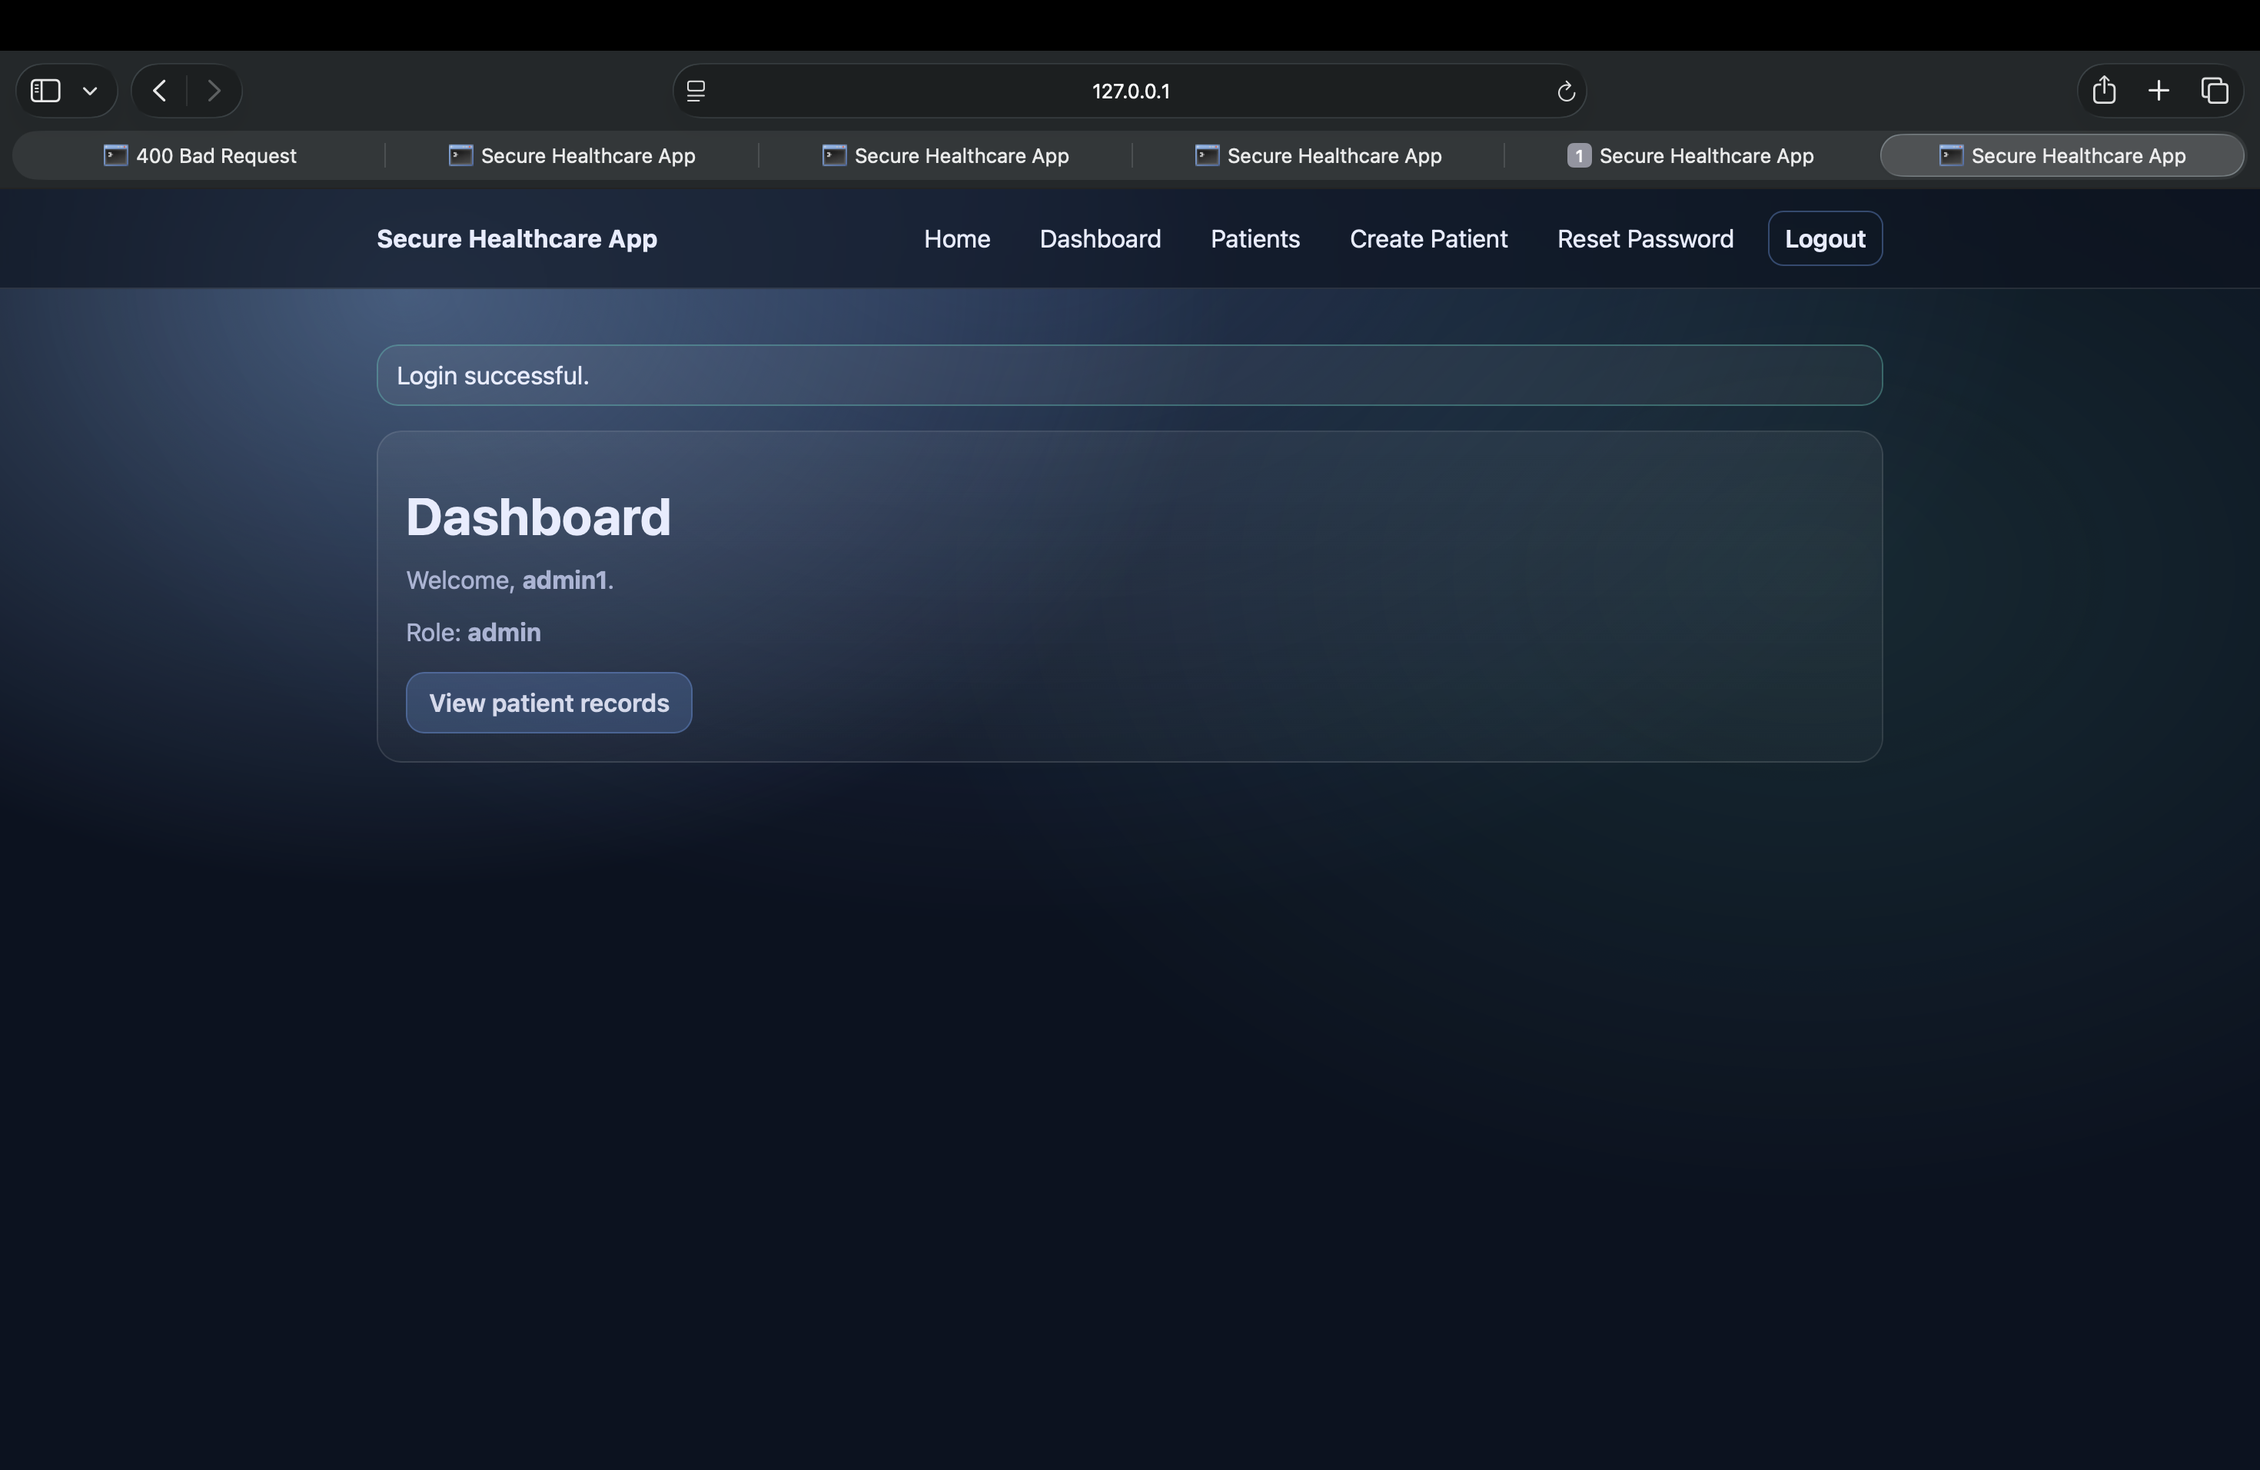
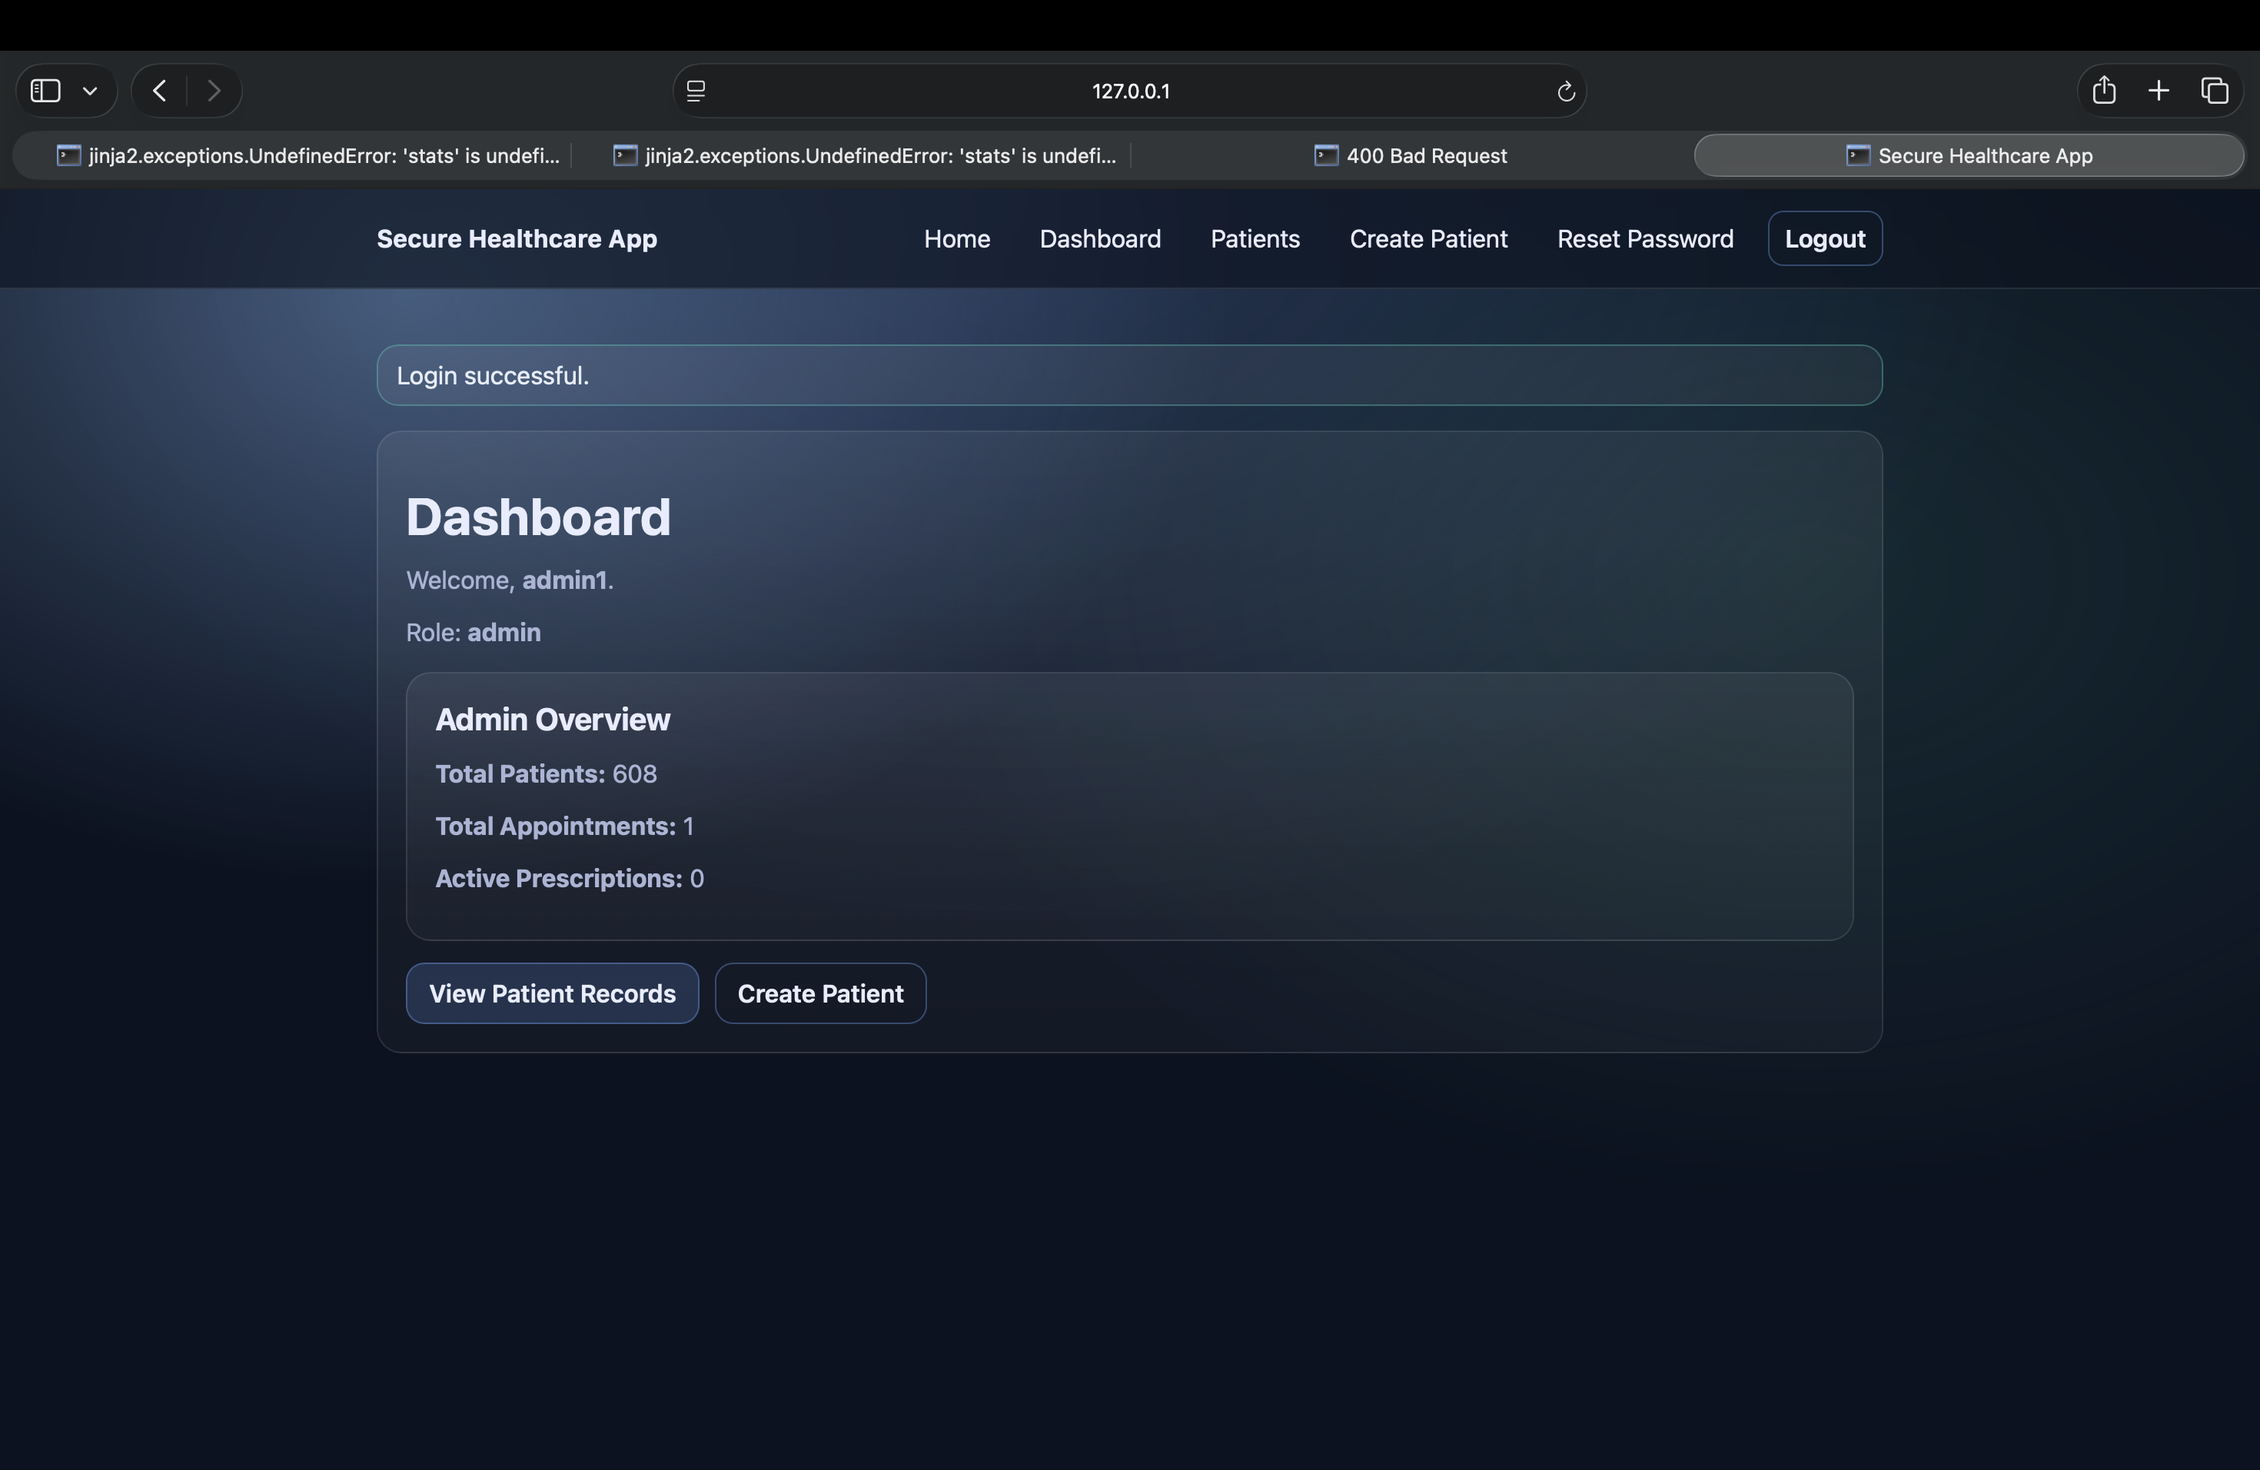
Final submission commit

diff --git a/templates/dashboard.html b/templates/dashboard.html
@@ -1,24 +1,38 @@
-<!-- dashboard.html — authenticated user landing page
-     - Displays the logged-in username and role
-     - Shows admin-only navigation to patient records
--->
 {% extends "base.html" %}
 
 {% block content %}
-  <div class="card">
+<div class="card">
     <h1>Dashboard</h1>
 
-    <!-- Personalised greeting -->
     <p>Welcome, <strong>{{ username }}</strong>.</p>
-
-    <!-- Role displayed for transparency -->
     <p class="muted">Role: <strong>{{ role }}</strong></p>
 
-    <!-- Admin-only call-to-action -->
     {% if role == "admin" %}
-      <div class="actions mt-14">
-        <a class="btn" href="{{ url_for('patients') }}">View patient records</a>
-      </div>
+    <div class="card mt-14">
+        <h2>Admin Overview</h2>
+        <p><strong>Total Patients:</strong> {{ stats["total_patients"] }}</p>
+        <p><strong>Total Appointments:</strong> {{ stats["total_appointments"] }}</p>
+        <p><strong>Active Prescriptions:</strong> {{ stats["active_prescriptions"] }}</p>
+    </div>
+
+    <div class="actions mt-14">
+        <a class="btn" href="{{ url_for('patients') }}">View Patient Records</a>
+        <a class="btn btn--ghost" href="{{ url_for('admin_create_patient') }}">Create Patient</a>
+    </div>
     {% endif %}
-  </div>
+
+    {% if role == "patient" %}
+    <div class="actions mt-14">
+        <a class="btn" href="{{ url_for('my_record') }}">View My Record</a>
+        <a class="btn btn--ghost" href="{{ url_for('book_appointment') }}">Book Appointment</a>
+    </div>
+    {% endif %}
+
+    {% if role == "clinician" %}
+    <div class="actions mt-14">
+        <a class="btn" href="{{ url_for('patients') }}">View Patient Records</a>
+        <a class="btn btn--ghost" href="{{ url_for('create_prescription') }}">Create Prescription</a>
+    </div>
+    {% endif %}
+</div>
 {% endblock %}

diff --git a/templates/500.html b/templates/500.html
@@ -1,0 +1,11 @@
+{% extends "base.html" %}
+
+{% block content %}
+<div class="card">
+    <h1>Server Error</h1>
+    <p>Something went wrong on the server. Please try again later.</p>
+    <div class="actions mt-14">
+        <a class="btn" href="{{ url_for('home') }}">Go to Home</a>
+    </div>
+</div>
+{% endblock %}

diff --git a/templates/404.html b/templates/404.html
@@ -1,0 +1,11 @@
+{% extends "base.html" %}
+
+{% block content %}
+<div class="card">
+    <h1>Page Not Found</h1>
+    <p>The page you requested could not be found.</p>
+    <div class="actions mt-14">
+        <a class="btn" href="{{ url_for('home') }}">Go to Home</a>
+    </div>
+</div>
+{% endblock %}

diff --git a/app.py b/app.py
@@ -176,6 +176,19 @@ def ensure_sqlite_schema():
     conn.commit()
     conn.close()
 
+# ⭐ Password strength validator (Security improvement)
+def is_strong_password(password: str) -> bool:
+    if len(password) < 10:
+        return False
+    if not re.search(r"[A-Z]", password):
+        return False
+    if not re.search(r"[a-z]", password):
+        return False
+    if not re.search(r"\d", password):
+        return False
+    if not re.search(r"[!@#$%^&*()_\-+=\[{\]};:'\",<.>/?\\|`~]", password):
+        return False
+    return True
 
 # Ensure DB schema and Mongo indexes at startup (idempotent)
 ensure_sqlite_schema()
@@ -273,7 +286,12 @@ def register():
         if not username or not password:
             flash("Username and password are required.", "error")
             return redirect(url_for("register"))
-
+        if not is_strong_password(password):
+            flash(
+                "Password must be at least 10 characters and include uppercase, lowercase, a number, and a special character.",
+                "error",
+             )
+            return redirect(url_for("register"))
         # Hash password securely
         password_hash = generate_password_hash(
             password, method="pbkdf2:sha256", salt_length=16
@@ -351,23 +369,53 @@ def logout():
     flash("You have been logged out.", "success")
     return redirect(url_for("home"))
 
-
+@app.context_processor
+def inject_dashboard_stats():
+    return {
+        "stats": {
+            "total_patients": 0,
+            "total_appointments": 0,
+            "active_prescriptions": 0,
+        }
+    }
 # -------------------------
 # Routes: authenticated
 # -------------------------
 @app.route("/dashboard")
 def dashboard():
-    # # Dashboard for logged-in users
     gate = require_login()
     if gate:
         return gate
+
+    stats = {
+        "total_patients": 0,
+        "total_appointments": 0,
+        "active_prescriptions": 0,
+    }
+
+    if session.get("role") == "admin":
+        conn = get_db_connection()
+
+        stats["total_patients"] = conn.execute(
+            "SELECT COUNT(*) AS count FROM patient_records"
+        ).fetchone()["count"]
+
+        stats["total_appointments"] = conn.execute(
+            "SELECT COUNT(*) AS count FROM appointments"
+        ).fetchone()["count"]
+
+        stats["active_prescriptions"] = conn.execute(
+            "SELECT COUNT(*) AS count FROM prescriptions WHERE status = 'active'"
+        ).fetchone()["count"]
+
+        conn.close()
 
     return render_template(
         "dashboard.html",
         username=session["username"],
         role=session["role"],
+        stats=stats,
     )
-
 
 @app.route("/my-record")
 def my_record():
@@ -419,8 +467,11 @@ def change_password():
             flash("Current password is incorrect.", "error")
             return redirect(url_for("change_password"))
 
-        if len(new_password) < 10:
-            flash("New password must be at least 10 characters long.", "error")
+        if not is_strong_password(new_password):
+            flash(
+                "New password must be at least 10 characters and include uppercase, lowercase, a number, and a special character.",
+                "error",
+            )
             return redirect(url_for("change_password"))
 
         new_hash = generate_password_hash(
@@ -996,6 +1047,15 @@ def deactivate_patient_user(username):
         flash("Failed to deactivate patient account.", "error")
 
     return redirect(url_for("patients"))
+
+@app.errorhandler(404)
+def not_found_error(error):
+    return render_template("404.html"), 404
+
+
+@app.errorhandler(500)
+def internal_error(error):
+    return render_template("500.html"), 500
 # -------------------------
 # Dev server entry-point
 # -------------------------

diff --git a/docs/security_evaluation.md b/docs/security_evaluation.md
@@ -1,153 +1,53 @@
-# Security Evaluation and Residual Risk Analysis  
-Secure Healthcare Record System
+## Security Evaluation and Residual Risk
 
-## 1. Evaluation of Implemented Security Controls
+This system was evaluated against common web security threats and healthcare data protection requirements. Several important security controls have been successfully implemented to reduce risk.
 
-The Secure Healthcare Record System applies several secure programming techniques based on threats identified during the STRIDE threat modelling process.  
-These controls aim to protect sensitive healthcare data, user credentials, and system functionality.
+### Implemented Security Controls
 
----
+**Authentication Security**
+- Passwords are securely hashed using PBKDF2 via Werkzeug.
+- Unique username enforcement prevents duplicate accounts.
+- Login rate limiting is implemented to reduce brute-force attacks.
+- Temporary passwords can be issued for newly created patient accounts.
 
-### Authentication Security
+**Session Security**
+- Session-based authentication protects sensitive routes.
+- Session timeout is enforced using permanent session lifetime settings.
+- Session data is cleared during logout to prevent session reuse.
 
-User passwords are securely hashed using the PBKDF2 algorithm provided by Werkzeug before being stored in MongoDB.  
-This ensures that passwords are never stored in plaintext and reduces the risk of credential exposure if the authentication database is compromised.
+**Access Control**
+- Role-Based Access Control (RBAC) is implemented.
+- Only administrators can access the patient management page.
+- Unauthorized users are redirected to an Access Denied page.
 
-Additionally, a unique index is enforced on usernames to prevent duplicate account creation and identity confusion.
+**Audit Logging**
+- Critical system actions such as viewing, editing, and deleting patient records are logged in the `audit_logs` table.
+- Each log entry records the username, action performed, and timestamp.
+- This improves accountability and supports forensic investigation.
 
-**Strengths**
+**Web Security Protections**
+- CSRF protection is enabled using Flask-WTF.
+- Secure HTTP headers (CSP, HSTS, X-Frame-Options) are enforced using Flask-Talisman.
+- Environment variables are used to protect sensitive configuration such as the secret key.
 
-- Protects against credential disclosure
-- Reduces risk of account takeover following database breach
-- Supports secure user identity management
+### Residual Security Risks
 
-**Limitations**
+Despite the implemented protections, some risks remain:
 
-- Multi-Factor Authentication is not implemented
-- Advanced account lockout policies are limited
-- Identity verification (such as email confirmation) is not present
+- Login rate limiting is stored in application memory and resets if the server restarts.
+- Account lockout after repeated failed login attempts is not yet implemented.
+- Password complexity rules are limited and could be strengthened.
+- SQLite database encryption at rest is not enabled.
+- No distributed session storage is used (e.g., Redis).
+- Advanced monitoring and alerting mechanisms are not implemented.
 
----
+### Recommended Future Improvements
 
-### Session Management and Access Control
+- Implement persistent rate limiting using Redis or database storage.
+- Add account lockout functionality after multiple failed login attempts.
+- Enforce stronger password complexity policies.
+- Use encrypted databases such as SQLCipher for sensitive healthcare data.
+- Introduce structured logging and security monitoring tools.
+- Apply pagination and query optimisation for large patient datasets.
 
-The system uses server-side session validation to ensure that only authenticated users can access protected routes such as `/dashboard` and `/patients`.  
-Role-Based Access Control (RBAC) is implemented to ensure that only authorised administrators can view or manage patient records.
-
-Sessions are cleared during logout, reducing the risk of session reuse attacks.
-
-**Strengths**
-
-- Prevents unauthorised access to sensitive healthcare data
-- Enforces separation of privileges between user roles
-- Protects against direct URL access attempts
-
-**Limitations**
-
-- Session timeout duration is basic and can be improved
-- Token-based authentication is not implemented
-- Advanced session monitoring mechanisms are not present
-
----
-
-### Input Validation and Injection Protection
-
-All SQLite database queries use parameterised statements to prevent SQL injection attacks.  
-CSRF protection is enabled to prevent attackers from performing unauthorised actions using forged requests.
-
-These controls align with OWASP secure coding recommendations.
-
-**Strengths**
-
-- Protects against common database injection attacks
-- Ensures safer handling of user input
-- Improves overall application integrity
-
-**Limitations**
-
-- No centralised validation framework across all routes
-- Limited input sanitisation beyond required form fields
-
----
-
-### Secure Headers and Client-Side Protection
-
-Flask-Talisman is used to enforce important HTTP security headers, including:
-
-- Content Security Policy (CSP)
-- HTTP Strict Transport Security (HSTS)
-- Clickjacking protection using frame restrictions
-
-These headers help reduce the risk of browser-based attacks such as cross-site scripting and man-in-the-middle attacks.
-
-**Strengths**
-
-- Improves browser-side security posture
-- Encourages secure HTTPS communication
-- Protects against UI redressing attacks
-
-**Limitations**
-
-- Full HTTPS enforcement depends on production deployment configuration
-- Some policies may require tuning for real-world environments
-
----
-
-### Audit Logging and Security Monitoring
-
-The system records important user actions such as login attempts and sensitive operations within an audit logging mechanism.  
-This supports accountability and security incident investigation.
-
-**Strengths**
-
-- Provides traceability of user activities
-- Supports repudiation mitigation
-- Enhances system transparency
-
-**Limitations**
-
-- No real-time monitoring dashboard
-- Logs are not yet protected against tampering
-
----
-
-## 2. Residual Risks
-
-Despite the implemented controls, some residual risks remain due to the prototype nature of the system:
-
-1. Limited protection against highly distributed brute force attacks  
-2. No encryption at rest for the SQLite patient database  
-3. Absence of Multi-Factor Authentication for privileged users  
-4. Lack of intrusion detection and automated threat monitoring  
-5. Basic session management compared to enterprise healthcare systems  
-6. No disaster recovery or database backup strategy  
-7. Limited defence-in-depth architecture
-
-These risks are considered acceptable within an academic prototype but would require mitigation before deployment in a real clinical environment.
-
----
-
-## 3. Security Maturity Assessment
-
-Overall, the system demonstrates a structured and threat-driven security design approach.
-
-The following maturity characteristics are present:
-
-- STRIDE-based threat modelling
-- Role-Based Access Control implementation
-- Secure password storage practices
-- Input validation and CSRF protection
-- Secure HTTP headers enforcement
-- Automated security testing
-- Audit logging for accountability
-- Clear trust boundary identification
-
-However, the system would require further hardening to reach production-level healthcare security standards.  
-Future improvements should include advanced authentication mechanisms, continuous monitoring, encryption strategies, and stronger operational security controls.
-
----
-
-## Conclusion
-
-The Secure Healthcare Record System achieves a strong security foundation suitable for academic demonstration.  
-While residual risks remain, the implemented safeguards significantly reduce common web application threats and demonstrate an understanding of secure software engineering principles.
+Overall, the system demonstrates a secure foundation suitable for a prototype healthcare application, with clear opportunities for further enhancement in a production environment.
